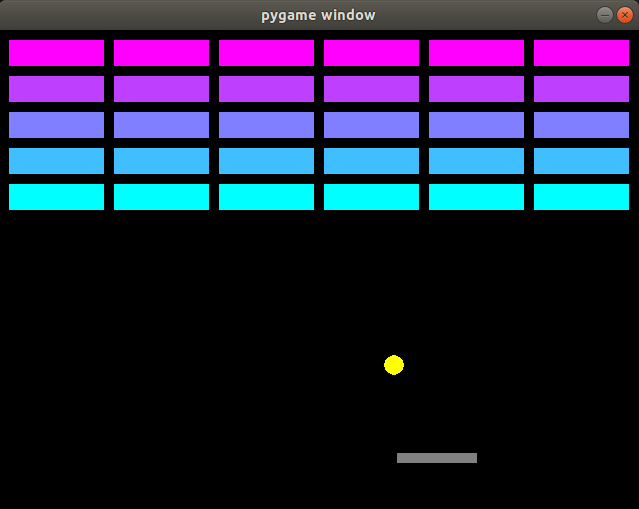
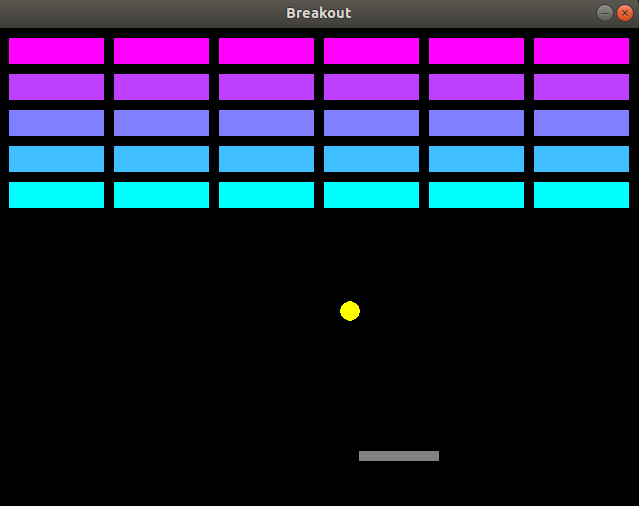
Edit readme

diff --git a/mvc/model.py b/mvc/model.py
@@ -6,6 +6,14 @@ import math
 
 class Wall:
     def __init__(self, wh, dims, space, colors, bricks):
+        """
+        Args:
+            wh: tuple of length 2, the width and height of the wall in pixels
+            dims: tuple of length 2, the number of rows and columns of bricks on the wall
+            space: tuple of length 2, (x, y) pixels of space to place between bricks on the x & y axes
+            color: tuple of length 3, (R, G, B) color of the wall
+            bricks: array of size 'dims' with an integer value of the number of layers on each brick
+        """
         self.wh = wh
         self.bricks = bricks
         self.colors = colors
@@ -29,6 +37,10 @@ class Wall:
     def remove_brick(self, row, col):
         """ Removes one layer from the brick at the specified row and column
         number of the bricks array.
+
+        Args:
+            row: integer index of the row number on the brick wall
+            col: integer index of the column number on the brick wall
         """
         self.bricks[row][col] -= 1
         self.brick_count -= 1
@@ -42,15 +54,11 @@ class Ball:
     def __init__(self, size, radius, xy, color, speed_xy):
         """
         Args:
-            size: tuple of length 2, containing integers of the width and height
-                    respectively of the game window in pixels
-            radius: integer of the radius of the ball in terms of number of pixels
-            xy: tuple of length 2, containing integer x and y coordinates
-                    respectively of the starting position of the ball in pixels
-            color: tuple of length 3, containing the integer R, G, and B
-                    components of the color to make the ball
-            speed_xy: tuple of length 2, containing integer x and y speeds
-                    respectively in pixels to move the ball per frame
+            size: tuple of length 2, the width and height of the game window in pixels
+            radius: radius of the ball in pixels
+            xy: tuple of length 2, (x, y) starting position of the ball in pixels
+            color: tuple of length 3, (R, G, B) color of the ball
+            speed_xy: tuple of length 2, x and y speeds in pixels to move the ball per frame
         """
         self.size = size
         self.radius = radius
@@ -59,8 +67,7 @@ class Ball:
         self.speed_xy = speed_xy
 
     def move(self):
-        """ Moves the ball, including bouncing it off of the game window edges.
-        """
+        """ Moves the ball, including bouncing it off of the game window edges """
         for i in range(2):
             self.xy[i] += self.speed_xy[i]
             if self.xy[i] <= self.radius:
@@ -74,14 +81,10 @@ class Paddle:
     def __init__(self, size, wh, xy, color, speed):
         """
         Args:
-            size: tuple of length 2, containing integers of the width and height
-                    respectively of the game window in pixels
-            wh: tuple of length 2, containing integer values of the width
-                    and height respectively of the paddle in pixels
-            xy: tuple of length 2, containing integer x and y coordinates
-                    respectively of the starting position of the paddle in pixels
-            color: tuple of length 3, containing the integer R, G, and B
-                    components of the color to make the paddle
+            size: tuple of length 2, the width and height of the game window in pixels
+            wh: tuple of length 2, the width and height of the paddle in pixels
+            xy: tuple of length 2, (x, y) starting position of the paddle in pixels
+            color: tuple of length 3, (R, G, B) color of the paddle
             speed: integer amount of pixels for the paddle to move right/left per
                     press of right/left arrow keys (if using arrow key control)
         """
@@ -92,8 +95,7 @@ class Paddle:
         self.speed = speed
 
     def move(self, pos=None, dir=None):
-        """ Moves the paddle in either the direction or to the position specified.
-        """
+        """ Moves the paddle in either the direction or to the position specified """
         if pos != None:
             self.xy[0] = pos
         if dir != None:

diff --git a/non-mvc/paddle.py b/non-mvc/paddle.py
@@ -21,22 +21,29 @@ class Paddle:
         self.color = color
         self.speed = speed
 
-    def move(self, pos=None, dir=None):
-        """ Moves the ball, including bouncing it off of the game window edges.
+    def move_by_arrow(self, event):
+        """ Moves the paddle to follow arrow key right/left presses.
         """
-        if pos != None:
-            self.xy[0] = pos
-        if dir != None:
-            if dir == 'right':
-                self.xy[0] += self.speed
-            elif dir == 'left':
+        if event.type == pygame.KEYDOWN:
+            if event.key == pygame.K_LEFT:
                 self.xy[0] -= self.speed
+                if (self.xy[0] < 0):
+                    self.xy[0] = 0
+            if event.key == pygame.K_RIGHT:
+                self.xy[0] += self.speed
+                if (self.xy[0] > self.size[0] - self.wh[0]):
+                    self.xy[0] = self.size[0] - self.wh[0]
 
-        # make paddle stay fully onscreen, capped at edges of the screen
-        if self.xy[0] < 0:
-            self.xy[0] = 0
-        if self.xy[0] > self.size[0] - self.wh[0]:
-            self.xy[0] = self.size[0] - self.wh[0]
+    def move_by_mouse(self, event):
+        """ Moves the paddle to follow the mouse horizontally.
+        """
+        if event.type == pygame.MOUSEMOTION:
+            coordinates = pygame.mouse.get_pos() # gives (x,y) coordinates
+            self.xy[0] = coordinates[0] - self.wh[0]//2
+            if self.xy[0] < 0:
+                self.xy[0] = 0
+            if self.xy[0] > self.size[0] - self.wh[0]:
+                self.xy[0] = self.size[0] - self.wh[0]
 
     def draw(self, screen):
         """ Draws the paddle on the screen using saved information about it.

diff --git a/mvc/view.py b/mvc/view.py
@@ -7,11 +7,16 @@ import pygame
 class PyGameWindowView:
     """ A view of breakout rendered in a Pygame window """
     def __init__(self, model, size):
-        """ Initialize the view with a reference to the model and the
-            specified game screen dimensions (represented as a tuple
-            containing the width and height) """
+        """ Initialize view with a reference to the model and the specified game
+        screen dimensions (represented as a tuple of the width and height).
+
+        Args:
+            model: an instance of the BreakoutModel class
+            size: a tuple of width and height of the window in pixels
+        """
         self.model = model
         self.screen = pygame.display.set_mode(size)
+        pygame.display.set_caption("Breakout") # set window name
 
     def draw(self):
         """ Draw the current game state to the screen """
@@ -34,4 +39,6 @@ class PyGameWindowView:
                             self.model.wall.colors[self.model.wall.bricks[i][j]-1],
                             [self.model.wall.x_coors[i], self.model.wall.y_coors[j],
                             self.model.wall.brick_wh[0], self.model.wall.brick_wh[1]], 0)
+
+        # show changes
         pygame.display.update()

diff --git a/non-mvc/breakout.py b/non-mvc/breakout.py
@@ -47,7 +47,7 @@ class Breakout():
 
     def make_wall(self):
         wall_wh = [self.size[0], int(self.size[1]*.4)] # what area of screen to build wall in
-        wall_dims = [6, 4] # num of bricks along x & y axes
+        wall_dims = [6, 5] # num of bricks along x & y axes
         wall_space = [10, 10] # space between bricks on x & y axes
 
         # bricks 2D array. Each column in a row is the same and each row increases as it goes up the screen
@@ -112,7 +112,7 @@ class Breakout():
             Returns:
                 boolean whether ball is below paddle, meaning the player lost
         """
-        over_paddle = (self.ball.xy[0] >= self.paddle.xy[0] and self.ball.xy[0] <= self.paddle.xy[0]+paddle.wh[0])
+        over_paddle = (self.ball.xy[0] >= self.paddle.xy[0] and self.ball.xy[0] <= self.paddle.xy[0] + self.paddle.wh[0])
         inside_paddle = (self.paddle.xy[1] <= self.ball.xy[1] + self.ball.radius)
         under_paddle = (self.paddle.xy[1] + self.paddle.wh[1] <= self.ball.xy[1] + self.ball.radius)
 

diff --git a/mvc/breakout.py b/mvc/breakout.py
@@ -1,6 +1,8 @@
 """
-This project uses the Model-View-Controller (MVC) design pattern to create the
-arcade game Breakout.
+Breakout
+
+This project uses the Model-View-Controller (MVC) design pattern to implement
+the arcade game Breakout using the pygame library.
 
 @author: Lilo & Izumi
 """
@@ -12,9 +14,7 @@ from controller.keyboard_controller import PyGameKeyboardController
 from controller.mouse_controller import PyGameMouseController
 
 def play_game(size):
-    """
-    Given screen 'size' as (x,y) tuple, start Breakout game
-    """
+    """ Given screen size as (x,y) tuple, play Breakout game """
     pygame.init()
     model = BreakoutModel(size)
     view = PyGameWindowView(model, size)
@@ -37,5 +37,6 @@ def play_game(size):
     pygame.quit()
 
 if __name__ == '__main__':
+    """ Set the size of the window and start the game """
     size = (640, 480)
     play_game(size)

diff --git a/mvc/controller/mouse_controller.py b/mvc/controller/mouse_controller.py
@@ -10,7 +10,6 @@ class PyGameMouseController:
         self.model = model
 
     def handle_event(self,event):
-        """ Makes paddle follow the mouse horizontally, stopping at edges of the screen.
-        """
+        """ Makes paddle follow the mouse horizontally """
         if event.type == pygame.locals.MOUSEMOTION:
             self.model.paddle.move(pos=event.pos[0] - self.model.paddle.wh[0]/2)

diff --git a/mvc/controller/keyboard_controller.py b/mvc/controller/keyboard_controller.py
@@ -10,7 +10,7 @@ class PyGameKeyboardController:
         self.model = model
 
     def handle_event(self,event):
-        """ Makes paddle follow arrow key right/left presses, stopping at edges of the screen. """
+        """ Makes paddle follow arrow key right/left presses """
         if event.type != pygame.locals.KEYDOWN:
             return
         if event.key == pygame.K_LEFT:

diff --git a/README.md b/README.md
@@ -1,10 +1,8 @@
 # Breakout
-InteractiveVisualization-izumi-lilo created by GitHub Classroom  
-
-Code for our version of the game 'Breakout' using pygame library by Izumi and Lilo.  
+Code for our version of the arcade game 'Breakout' using pygame library by Izumi and Lilo.  
 Run **breakout.py** to play!
 
 - Can modify the game state in model.py to edit the wall dimensions and color scheme.
-- mvc is the model, controller, view format, while non-mvc is the original version of the code.
+- mvc is the model, view, controller version of the code while non-mvc is the original.
 
-<img src="images/image1.png" width="400"> <img src="images/image2.png" width="400">
+<img src="images/image2.png" width="450"> <img src="images/image4.png" width="450">
